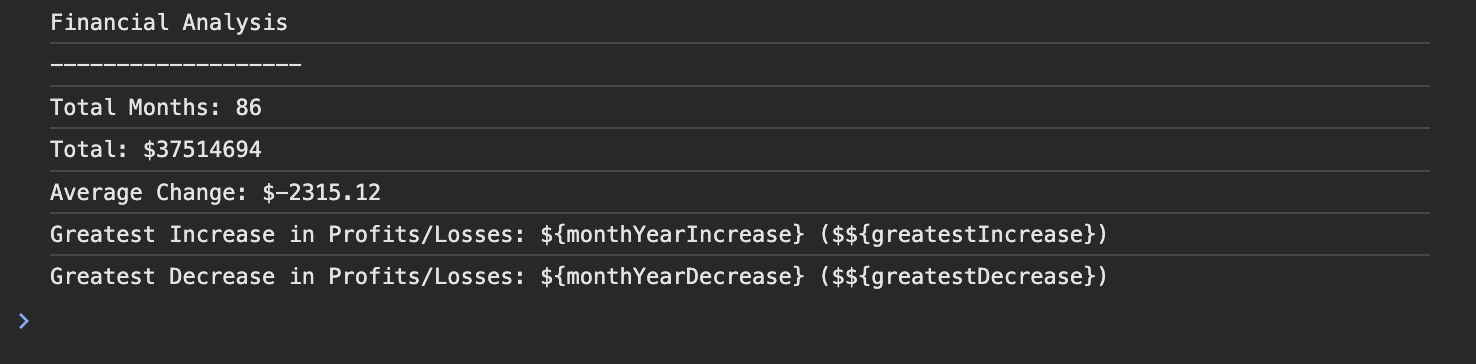
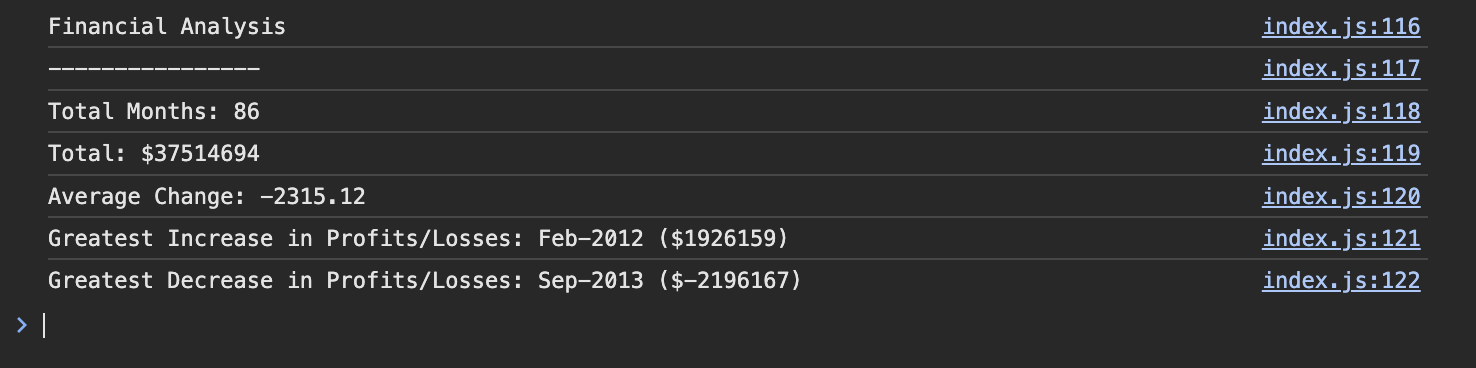
fixed-error-in-greatest-increase/decrease-calculation

Changed region(s): [[0.0312, 0.1511, 0.9661, 0.8159], [0.0312, 0.0302, 0.9661, 0.1209], [0.0, 0.8462, 0.0312, 0.9066]]

diff --git a/index.js b/index.js
@@ -111,14 +111,12 @@ finances.forEach((finance, index) => {
   }
 });
 
-const averageChange = totalChange / totalMonths;
+const avgChange = totalChange / totalMonths;
 
 console.log('Financial Analysis');
-console.log('-------------------');
+console.log('----------------');
 console.log(`Total Months: ${totalMonths + 1}`);
 console.log(`Total: $${totalSum}`);
-console.log(`Average Change: $${averageChange.toFixed(2)}`);
-console.log('Greatest Increase in Profits/Losses: ${monthYearIncrease} ($${greatestIncrease})');
-console.log('Greatest Decrease in Profits/Losses: ${monthYearDecrease} ($${greatestDecrease})');
-
-
+console.log(`Average Change: ${avgChange.toFixed(2)}`);
+console.log(`Greatest Increase in Profits/Losses: ${monthYearIncrease} ($${greatestIncrease})`);
+console.log(`Greatest Decrease in Profits/Losses: ${monthYearDecrease} ($${greatestDecrease})`);

diff --git a/README.md b/README.md
@@ -7,7 +7,7 @@ To use this tool, follow these steps:
 
 1. Clone the repository:
 
-git clone https://github.com/texndo module-4-javascript-fundamentals-console-finances
+git clone https://github.com/texndo-module-4-javascript-fundamentals-console-finances
 
 2. Navigate to the project directory: 
 
